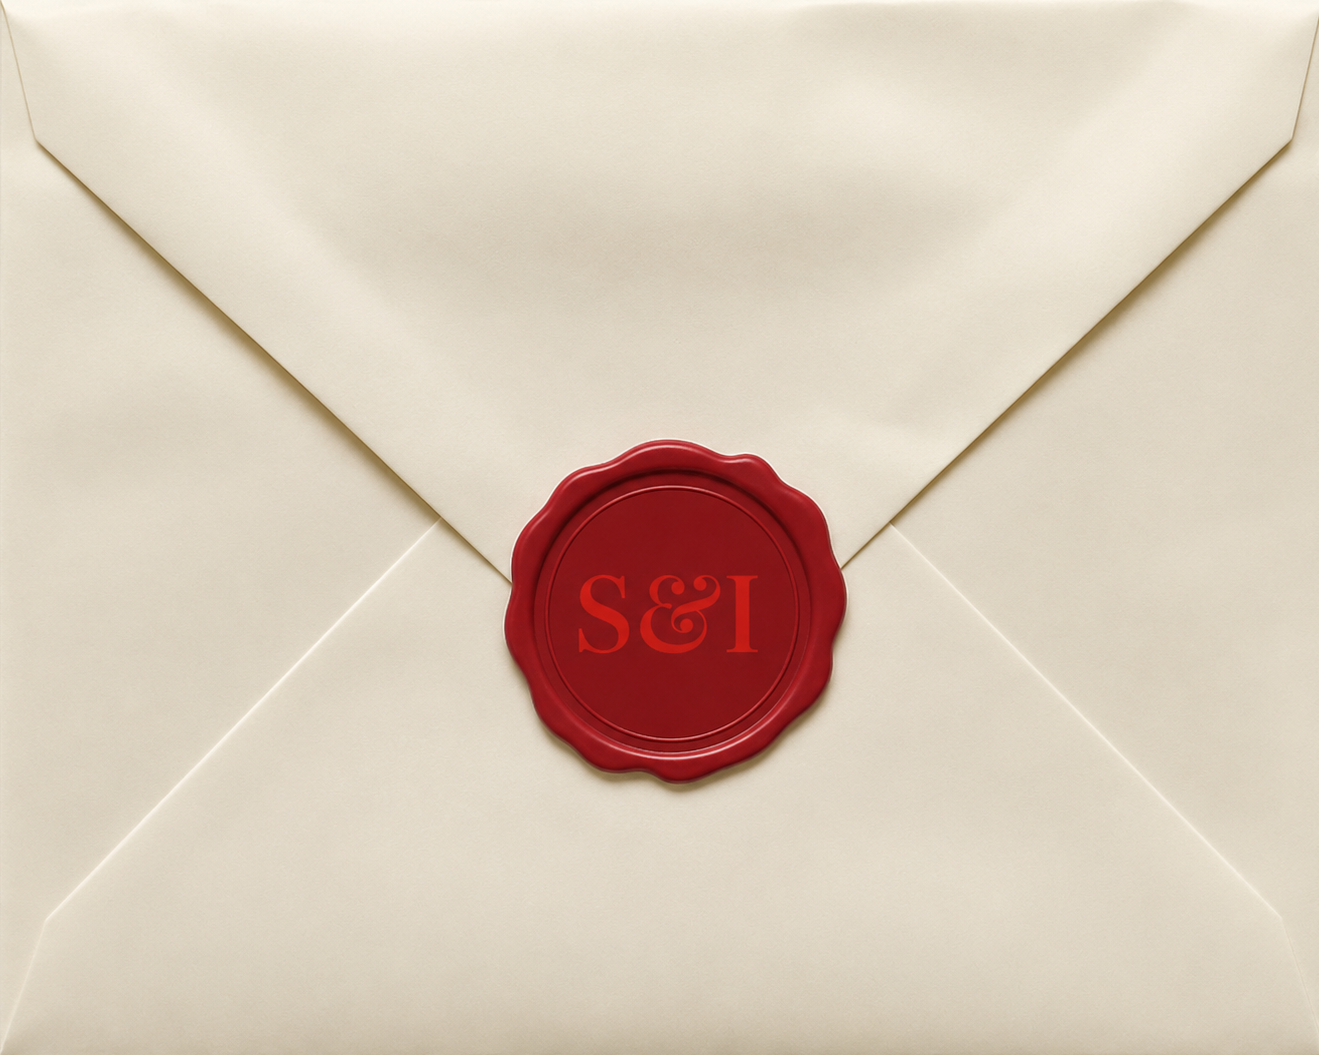
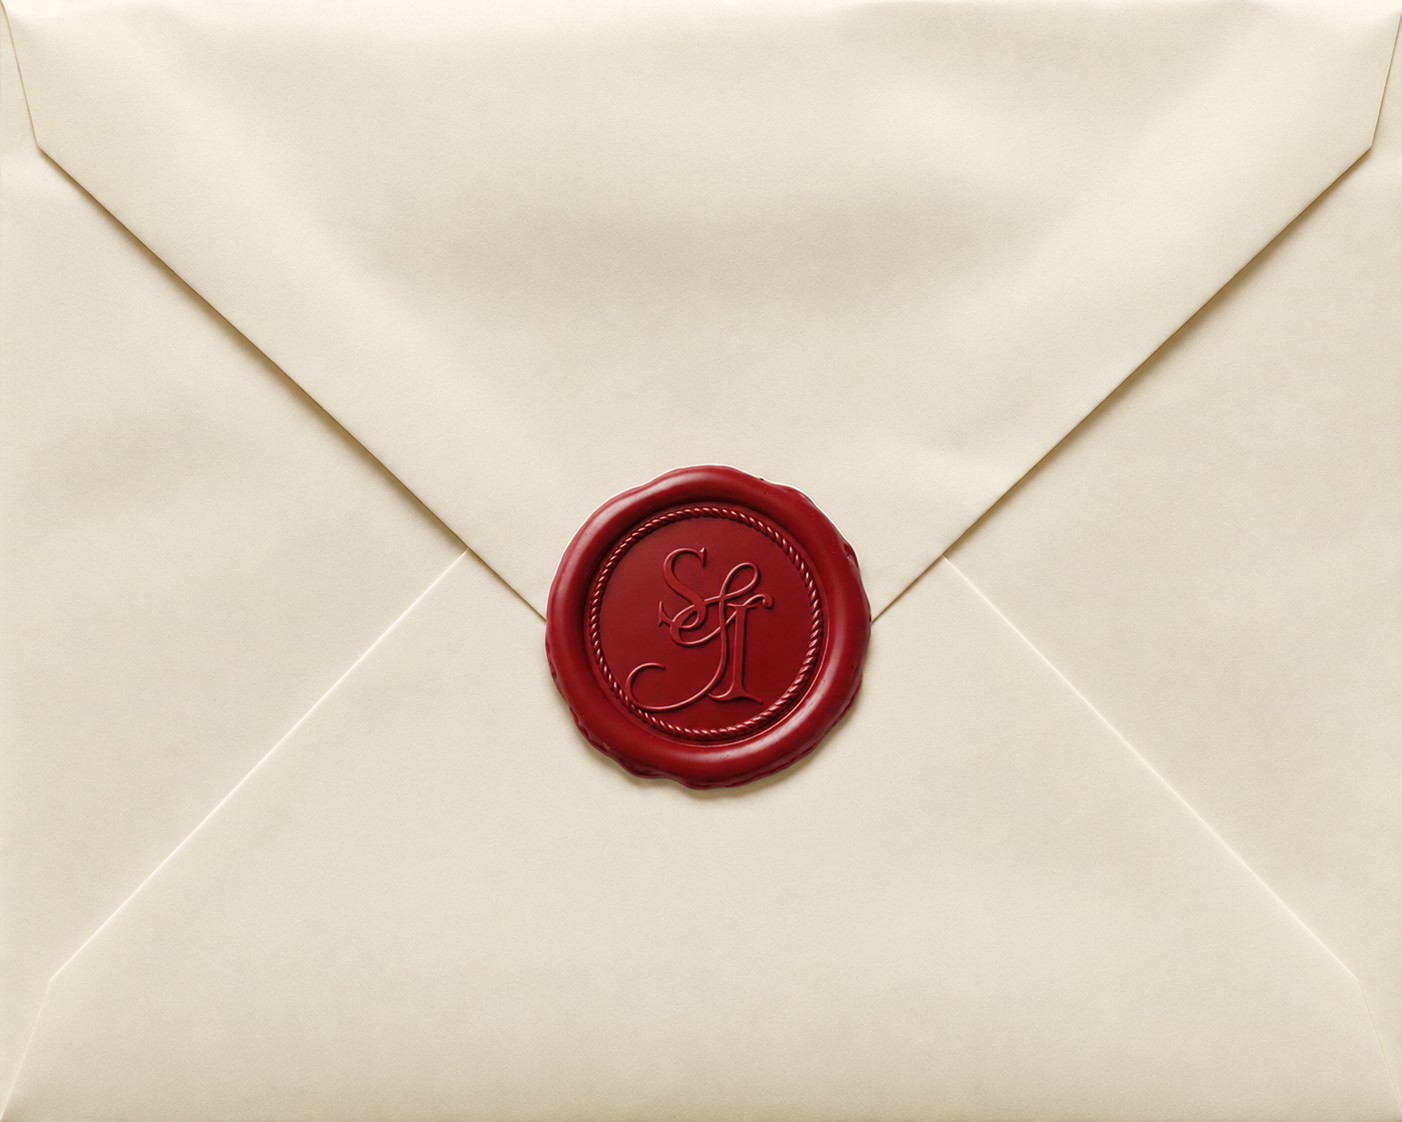
review changes

diff --git a/src/App.css b/src/App.css
@@ -559,37 +559,31 @@ video::-webkit-media-controls-enclosure { display: none !important; }
   margin: 0 auto;
 }
 
-/* On Mobile: Bride on top (order: 1), Groom below (order: 2) */
+/* ── Invited By Section Responsive Grid ── */
+.invited-by-grid {
+  display: flex;
+  flex-direction: column;
+  align-items: center;
+  justify-content: center;
+  gap: 28px;
+  width: 100%;
+  max-width: 900px;
+  margin: 0 auto;
+}
+
 .bride-column {
-  order: 1;
   width: 100%;
   max-width: min(94vw, 420px);
+  margin: 0 auto;
 }
 
-.groom-column {
-  order: 2;
-  width: 100%;
-  max-width: min(94vw, 420px);
-}
-
-/* On Desktop: Groom on left (order: 1), Bride on right (order: 2) */
 @media (min-width: 768px) {
   .invited-by-grid {
     flex-direction: row;
     justify-content: center;
-    align-items: stretch;
-    gap: 32px;
-  }
-
-  .groom-column {
-    order: 1;
-    flex: 1;
-    max-width: 420px;
   }
 
   .bride-column {
-    order: 2;
-    flex: 1;
     max-width: 420px;
   }
 }
@@ -663,16 +657,16 @@ video::-webkit-media-controls-enclosure { display: none !important; }
 /* ── Overlaid Play Button Pulse Animation ── */
 @keyframes pulse-play-btn {
   0%, 100% {
-    transform: translate(-50%, -50%) scale(0.5);
+    transform: translate(-50%, -50%) scale(0.45);
   }
   50% {
-    transform: translate(-50%, -50%) scale(0.45);
+    transform: translate(-50%, -50%) scale(0.525);
   }
 }
 
 .pulsing-play-btn {
-  transform: translate(-50%, -50%) scale(0.5);
-  animation: pulse-play-btn 3.6s ease-in-out infinite;
+  transform: translate(-50%, -50%) scale(0.45);
+  animation: pulse-play-btn 3.27s ease-in-out infinite;
 }
 
 /* ── Ganesh Slide Mobile Sizing & Alignment ── */

diff --git a/src/components/InvitedBySlide.jsx b/src/components/InvitedBySlide.jsx
@@ -1,9 +1,6 @@
 import { motion } from 'framer-motion';
 
 export default function InvitedBySlide({
-  groomName = "Dr. Ishank Johri",
-  groomFather = "Dr. Ashwani Johri",
-  groomMother = "Dr. Surabhi Johri",
   brideName = "Dr. Shivi Srivastava",
   brideFather = "Dr. Sandesh Kumar Srivastava",
   brideMother = "Dr. Neeta Srivastava"
@@ -50,24 +47,11 @@ export default function InvitedBySlide({
           margin: '0 0 24px 0',
           fontWeight: 'normal'
         }}>
-          Invited By
+          Warm Regards
         </h2>
 
-        {/* 2 Columns Container */}
+        {/* Centered Bride Section */}
         <div className="invited-by-grid">
-          {/* Groom Section */}
-          <div className="groom-column">
-            <div className="family-card">
-              <span className="family-role-label">GROOM</span>
-              <h3 className="family-person-name">{groomName}</h3>
-              <div className="family-card-divider" />
-              <span className="family-parents-label">GROOM'S PARENTS</span>
-              <p className="family-parents-name">{groomFather}</p>
-              <p className="family-parents-name">{groomMother}</p>
-            </div>
-          </div>
-
-          {/* Bride Section */}
           <div className="bride-column">
             <div className="family-card">
               <span className="family-role-label">BRIDE</span>
@@ -90,7 +74,7 @@ export default function InvitedBySlide({
           fontStyle: 'italic',
           opacity: 0.95
         }}>
-          We look forward to celebrating with you!
+          Let's gather, celebrate and make memories together!
         </p>
       </motion.div>
     </section>

diff --git a/src/components/SaveTheDateSlide.jsx b/src/components/SaveTheDateSlide.jsx
@@ -40,8 +40,8 @@ export default function SaveTheDateSlide({
           flexDirection: 'column',
           alignItems: 'center',
           justifyContent: 'center',
-          maxWidth: '650px',
-          width: '90%',
+          maxWidth: '98vw',
+          width: '98%',
           zIndex: 5,
           pointerEvents: isOpen ? 'auto' : 'none',
           boxSizing: 'border-box'
@@ -62,16 +62,21 @@ export default function SaveTheDateSlide({
             width: '100%'
           }}
         >
-          {/* Line 1: Save the Dates */}
+          {/* Line 1: Reminder Message */}
           <h2 style={{
             fontFamily: "'Great Vibes', cursive",
-            fontSize: 'clamp(44px, 9vw, 76px)',
+            fontSize: 'clamp(18px, 4.6vw, 56px)',
             color: '#c9942a',
-            margin: '0 0 16px 0',
+            margin: '0 auto 16px auto',
+            width: '100%',
+            maxWidth: '100%',
+            whiteSpace: 'nowrap',
+            lineHeight: 1.2,
             fontWeight: 'normal',
             textShadow: '0 4px 16px rgba(0,0,0,0.4)'
           }}>
-            Save the Dates
+            <span style={{ fontFamily: "'Pinyon Script', cursive", fontSize: '1.15em', marginRight: '1px', display: 'inline-block' }}>A</span>
+            &nbsp;little reminder to keep these dates free for us.
           </h2>
 
           {/* Decorative Gold Line */}
@@ -93,7 +98,7 @@ export default function SaveTheDateSlide({
             lineHeight: 1.3,
             textTransform: 'uppercase'
           }}>
-            Wednesday, December 2, 2026
+            Wednesday, December 2
           </p>
 
           {/* Line 3: and */}

diff --git a/src/components/ShowcaseSlide.jsx b/src/components/ShowcaseSlide.jsx
@@ -38,7 +38,7 @@ export default function ShowcaseSlide({
           margin: 0,
           fontWeight: 'normal'
         }}>
-          The Happy Couple
+          Meet The Happy Couple
         </h2>
       </div>
 
@@ -55,10 +55,10 @@ export default function ShowcaseSlide({
           <div className="photo-wrapper">
             <img src={groomImgSrc} alt="Groom" />
           </div>
-          <h3 className="showcase-name">Ishank</h3>
+          <h3 className="showcase-name">Dr. Ishank</h3>
           <p className="showcase-title">The Groom</p>
           <p className="showcase-bio">
-            A gentleman with a heart of gold, carrying a beautiful dream of love. Ready to walk hand-in-hand towards a lifetime of happiness, laughter, and forever.
+            Hepatologist by profession who doesn't fight the tide - but flows with reality. Resilient, practical and calm, with a light sense of humor that keeps life grounded and joyful.
           </p>
 
           {/* Groom's Blessed by Elders Block */}
@@ -221,7 +221,7 @@ export default function ShowcaseSlide({
           <div className="photo-wrapper">
             <img src={brideImgSrc} alt="Bride" />
           </div>
-          <h3 className="showcase-name">Shivi</h3>
+          <h3 className="showcase-name">Dr. Shivi</h3>
           <p className="showcase-title">The Bride</p>
           <p className="showcase-bio">
             A vision of grace and beauty, ready to embark on a sweet adventure of love. Eager to write a story of tomorrow alongside her dream partner.

diff --git a/src/App.jsx b/src/App.jsx
@@ -468,7 +468,7 @@ function App() {
               </motion.div>
 
               {/* Invitation Message (poetic and gold-colored) */}
-              <motion.p
+              <motion.div
                 initial={{ opacity: 0 }}
                 whileInView={{ opacity: 0.9 }}
                 viewport={{ once: true }}
@@ -480,15 +480,20 @@ function App() {
                   maxWidth: '600px',
                   width: '100%',
                   textAlign: 'center',
-                  lineHeight: 1.5,
+                  lineHeight: 1.6,
                   margin: '28px auto 0',
                   fontStyle: 'italic',
                   padding: '0 16px',
                   boxSizing: 'border-box'
                 }}
               >
-                "Two souls, one journey, woven by destiny. We request the joy of your presence as they begin their forever."
-              </motion.p>
+                <p style={{ margin: '0 0 4px 0', textAlign: 'center' }}>
+                  "Two souls, one journey, woven by destiny.
+                </p>
+                <p style={{ margin: 0, textAlign: 'center' }}>
+                  We request the joy of your presence as they begin their forever."
+                </p>
+              </motion.div>
             </section>
 
             <CountdownSlide />

diff --git a/src/components/GallerySlide.jsx b/src/components/GallerySlide.jsx
@@ -279,7 +279,7 @@ export default function GallerySlide() {
             margin: '0 0 8px',
             fontWeight: 'normal'
           }}>
-            Moments Together
+            Our Love Story
           </h2>
           <p style={{
             fontFamily: "'EB Garamond', serif",
